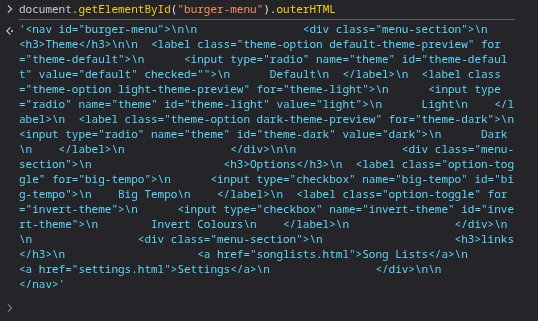
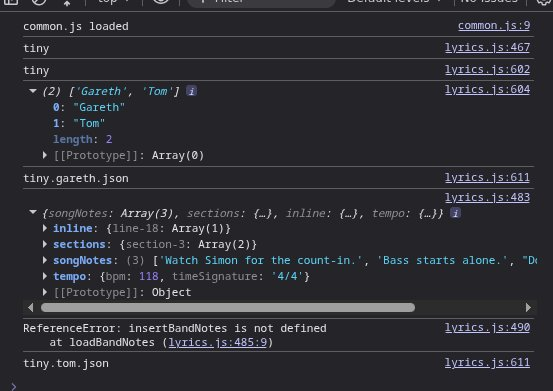
Add band notes support
Implemented band notes from the song metadata file (tiny.json).

- Top band notes
- Section band notes
- Inline band cues

Band notes are now rendered independently of user notes. User note functionality remains unchanged.

Changed region(s): [[0.0, 0.0, 1.0, 0.9657], [0.803, 0.9034, 0.9517, 0.9657], [0.0, 0.9657, 0.0297, 1.0]]

diff --git a/assets/lyrics.js b/assets/lyrics.js
@@ -71,6 +71,7 @@ if (theme)
 
 applyTextSize(textSize);
 
+loadBandNotes();
 loadUserNotes();
 
 
@@ -358,7 +359,7 @@ function renderInlineCue(member, text, lyricLine)
     );
 }
 
-function insertUserNotes(data)
+function insertBandNotes(data)
 {
     if (!data.notes)
     {
@@ -388,6 +389,169 @@ function insertUserNotes(data)
 }
 
 
+/*----------------------------------------------------------*/
+/* Section Band Notes                                       */
+/*----------------------------------------------------------*/
+
+function insertSectionBandNotes(sections)
+{
+    if (!sections)
+    {
+        return;
+    }
+
+    for (const sectionId in sections)
+    {
+        const section =
+            document.getElementById(sectionId);
+
+        if (!section)
+        {
+            continue;
+        }
+
+        const heading =
+            section.querySelector("h2");
+
+        for (const note of sections[sectionId])
+        {
+            const p =
+                document.createElement("p");
+
+            p.className = "band-note";
+
+            p.textContent = note;
+
+            if (heading)
+            {
+                heading.insertAdjacentElement(
+                    "afterend",
+                    p
+                );
+            }
+            else
+            {
+                section.prepend(p);
+            }
+        }
+    }
+}
+
+/*----------------------------------------------------------*/
+/* Inline Band Notes                                        */
+/*----------------------------------------------------------*/
+
+function insertInlineBandNotes(inline)
+{
+    if (!inline)
+    {
+        return;
+    }
+
+    for (const line in inline)
+    {
+        const lyric =
+            document.querySelector(
+                '.lyrics[data-line="' +
+                line.replace("line-", "") +
+                '"]'
+            );
+
+        if (!lyric)
+        {
+            continue;
+        }
+
+        renderInlineBandCue(
+            inline[line],
+            lyric
+        );
+    }
+}
+
+/*----------------------------------------------------------*/
+/* Render Inline Band Cue                                   */
+/*----------------------------------------------------------*/
+
+function renderInlineBandCue(notes, lyric)
+{
+    const cue =
+        document.createElement("div");
+
+    cue.className =
+        "band-inline-note";
+
+    cue.textContent =
+        notes.join(" ");
+
+    lyric.parentNode.insertBefore(
+        cue,
+        lyric
+    );
+}
+
+function insertUserNotes(data)
+{
+    if (!data.notes)
+    {
+        return;
+    }
+
+    for (const line in data.notes)
+    {
+        const lyric =
+            document.querySelector(
+                '.lyrics[data-line="' +
+                line.replace("line-", "") +
+                '"]'
+            );
+
+        if (!lyric)
+        {
+            continue;
+        }
+
+        renderInlineCue(
+            data.user,
+            data.notes[line],
+            lyric
+        );
+    }
+}
+
+/*----------------------------------------------------------*/
+/* Top Band Notes                                            */
+/*----------------------------------------------------------*/
+
+function insertBandNotes(notes)
+{
+    if (!notes || notes.length === 0)
+    {
+        return;
+    }
+
+    const container =
+        document.querySelector(".song-notes");
+
+    if (!container)
+    {
+        return;
+    }
+
+    for (const note of notes)
+    {
+        const p =
+            document.createElement("p");
+
+        p.className = "band-note";
+
+        p.textContent = note;
+
+        container.appendChild(p);
+    }
+}
+
+
 //
 // Add line numbers to every lyric line.
 //
@@ -411,6 +575,142 @@ function addLineNumbers()
         line.prepend(span);
     }
 }
+
+
+/*----------------------------------------------------------*/
+/* Band Notes                                                */
+/*----------------------------------------------------------*/
+
+function currentSongName()
+{
+    const filename =
+        window.location.pathname
+            .split("/")
+            .pop();
+
+    return filename.replace(".html", "");
+}
+
+function enabledMembers()
+{
+    const members = [];
+
+    for (const key in localStorage)
+    {
+        if (!key.startsWith("notes-"))
+            continue;
+
+        if (localStorage.getItem(key) !== "true")
+            continue;
+
+        members.push(
+            key.replace("notes-", "")
+        );
+    }
+
+    return members;
+}
+
+function notesFilename(song, member)
+{
+    return (
+        song +
+        "." +
+        member.toLowerCase() +
+        ".json"
+    );
+}
+
+
+async function loadBandNotes()
+{
+    const song =
+        currentSongName();
+
+    console.log(song);
+
+    try
+    {
+        const response =
+            await fetch("tiny.json");
+
+        if (!response.ok)
+        {
+            console.log("tiny.json not found");
+            return;
+        }
+
+        const songData =
+            await response.json();
+
+        console.log(songData);
+
+        insertBandNotes(songData.songNotes);
+        insertSectionBandNotes(songData.sections);
+        insertInlineBandNotes(songData.inline);
+
+
+    }
+
+    catch (error)
+    {
+        console.log(error);
+    }
+}
+
+
+/*
+async function loadUserNotes()
+{
+    const song =
+        currentSongName();
+
+    const members =
+        enabledMembers();
+
+    console.log(song);
+
+    console.log(members);
+
+    for (const member of members)
+    {
+        const filename =
+            notesFilename(song, member);
+
+        console.log(filename);
+
+        try
+        {
+            const response =
+                await fetch(filename);
+
+            if (!response.ok)
+            {
+                console.log(
+                    filename +
+                    " not found"
+                );
+
+                continue;
+            }
+
+            const notes =
+                await response.json();
+
+//            console.log(notes);
+//            insertTopNotes(notes);  
+               insertUserNotes(notes);
+         
+        }
+
+        catch (error)
+        {
+            console.log(error);
+        }
+    }
+}
+
+*/
 
 
 /*----------------------------------------------------------*/

diff --git a/assets/pwa-fetch.js b/assets/pwa-fetch.js
@@ -1,0 +1,38 @@
+const DATA_CACHE_NAME = 'pwa-json-cache-v1';
+
+self.addEventListener('fetch', (event) => {
+  const requestUrl = new URL(event.request.url);
+
+  // Target only JSON requests
+  if (requestUrl.pathname.endsWith('.json')) {
+    
+    // STEP 1: Localhost 1st
+    // If the request is originating from or pointing to a local dev environment
+    if (requestUrl.hostname === 'localhost' || requestUrl.hostname === '127.0.0.1') {
+      event.respondWith(
+        fetch(event.request).catch(() => caches.match(event.request))
+      );
+      return; 
+    }
+
+    // STEP 2: Internet 2nd (Cloud Fetch & Cache Update)
+    event.respondWith(
+      fetch(event.request)
+        .then((response) => {
+          if (response.status === 200) {
+            const responseClone = response.clone();
+            // Silently update the cache in the background
+            caches.open(DATA_CACHE_NAME).then((cache) => {
+              cache.put(event.request, responseClone);
+            });
+          }
+          return response;
+        })
+        // STEP 3: Offline 3rd (Graceful Fallback)
+        .catch(() => {
+          console.log('App is offline. Loading fallback cached JSON.');
+          return caches.match(event.request);
+        })
+    );
+  }
+});

diff --git a/assets/lyrics.css b/assets/lyrics.css
@@ -512,3 +512,9 @@ body
     display: block;
     margin-bottom: 0.3em;
 }
+
+.band-inline-note
+{
+    font-size: 0.75em;
+    font-weight: bold;
+}
